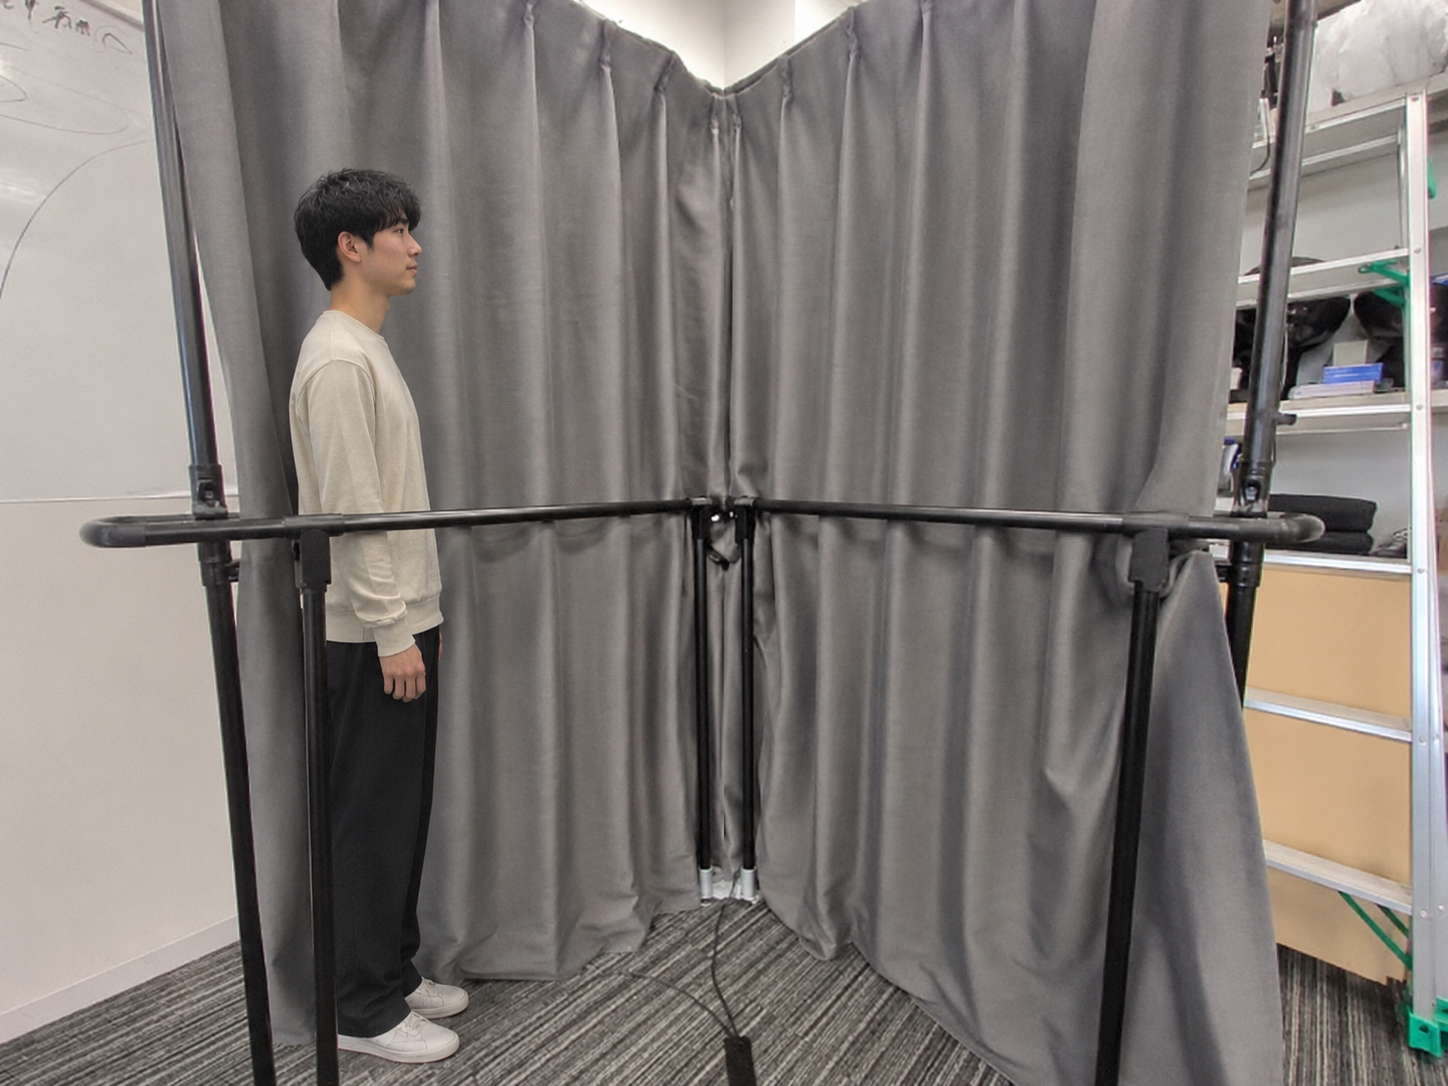
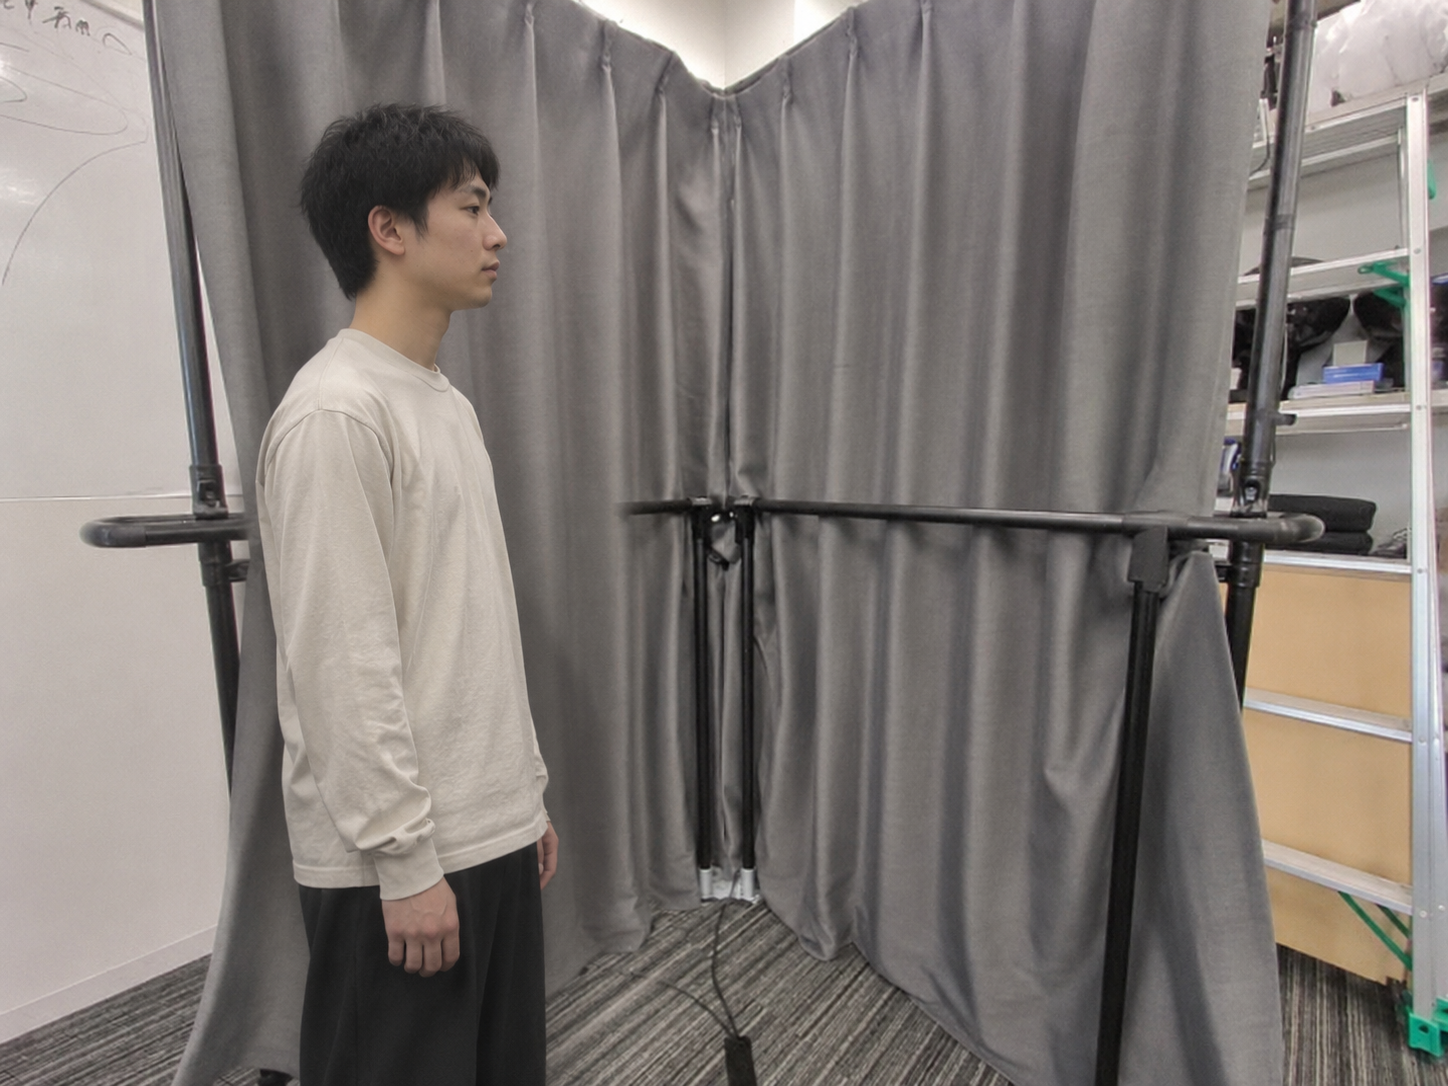
fix：合成の説明画で、人と幽霊を手すりの手前に立たせる
- 体験者は手すりのカメラ側に立つ。前の版は手すりの奥に立たせていた
- 幽霊の指先が中央を越えなくなったので、境目をちょうど半分にし、ブレンドは境目から左へ取る
- 境目が幕の角の折り目と重なって当てにならないので、境目の差の数値を外す

diff --git a/paper/dcexpo-pitch/make-composite-demo.py b/paper/dcexpo-pitch/make-composite-demo.py
@@ -3,8 +3,8 @@
     py -3.11 paper/dcexpo-pitch/make-composite-demo.py <出力フォルダ>
 
 同じ環境画像（カメラ A の無人の実写）から、画像生成で 2 枚を別々に作ってある。
-  src/gen-person.png  左に、右を向いて立つ人
-  src/gen-ghost.png   右に、左へ襲い掛かる幽霊の女
+  src/gen-person.png  左に、右を向いて立つ人（手すりの手前）
+  src/gen-ghost.png   右に、左へ襲い掛かる幽霊の女（手すりの手前）
 カメラが動かないので 2 枚は同じ構図になり、片方の右側をもう片方の右側へ差し替えるだけで合成になる。
 作品に出てくる物は使わない（ネタバレを避ける代役）。プロンプトは src/*.prompt.txt。
 1 合成前 / 2 合成後（右側をそのまま差し替える）/ 3 境界ブレンド後 / 4 画像加工後。
@@ -20,8 +20,8 @@ ROOT = HERE.parent.parent
 ENV = ROOT / "Assets/StreamingAssets/show/assets/plate_A_20261115_125052.jpg"
 PERSON = HERE / "src/gen-person.png"
 GHOST = HERE / "src/gen-ghost.png"
-SEAM = 0.40      # 差し替える境目（画面の幅に対して）。幽霊の手が中央より左へ出ているので、中央より少し左に置く
-FEATHER = 150    # 境界ブレンドの幅（px）
+SEAM = 0.50      # 差し替える境目（画面の幅に対して）。ちょうど半分
+FEATHER = 150    # 境界ブレンドの幅（px）。幽霊の指先が境目のすぐ右にあるので、境目から左へ取る
 rng = np.random.default_rng(7)
 
 
@@ -66,10 +66,10 @@ def main(out_dir):
     s2[:, seam:] = b[:, seam:]
 
     # 3 境界ブレンド後: 境目の近くで明るさと色を揃え、幅を持たせて混ぜる
-    band = slice(seam - 110, seam + 10)
+    band = slice(seam - 120, seam)
     gain = a[:, band].mean(axis=(0, 1)) / b[:, band].mean(axis=(0, 1))
     xs = np.arange(w, dtype=np.float32)
-    t = np.clip((xs - (seam - FEATHER / 2)) / FEATHER, 0, 1)
+    t = np.clip((xs - (seam - FEATHER)) / FEATHER, 0, 1)
     m = (t * t * (3 - 2 * t))[None, :, None]
     fade = np.clip((xs - seam) / (w * 0.25), 0, 1)[None, :, None]      # 色の補正は境目から離れるほど弱める
     b2 = b * (gain[None, None, :] * (1 - fade) + fade)
@@ -88,17 +88,12 @@ def main(out_dir):
     b_im.save(out / f"素材_生成2_右に幽霊_{w}x{h}.png")
 
     # 境目の拡大（2 と 3 の差は引きでは見えにくい）と、境目の位置を引いた版
-    box = (seam - 120, round(h * 0.26), seam + 120, round(h * 0.26) + 180)
+    box = (seam - 160, round(h * 0.24), seam + 80, round(h * 0.24) + 180)
     for name, im in zip(("2_合成後", "3_境界ブレンド後"), imgs[1:3]):
         im.crop(box).resize((960, 720), Image.LANCZOS).save(out / f"{name}_境目の拡大.png")
     guide = imgs[1].copy()
     ImageDraw.Draw(guide).line((seam, 0, seam, h), fill=(176, 42, 50), width=4)
     guide.save(out / f"2_合成後_境目に線_{w}x{h}.png")
-
-    # 差の大きさ（境目の左右 1px の差の平均。0〜255）
-    step2 = np.abs(s2[:, seam] - s2[:, seam - 1]).mean() * 255
-    step3 = np.abs(s3[:, seam] - s3[:, seam - 1]).mean() * 255
-    inner = np.abs(a[:, seam - 40] - a[:, seam - 41]).mean() * 255
 
     # 4 枚を並べた版（ラベルつき）
     pw, ph, gap, pad, lab = 800, 600, 28, 56, 96
@@ -112,7 +107,7 @@ def main(out_dir):
         dr.rectangle((x, pad + ph + 34, x + 36, pad + ph + 38), fill=(176, 42, 50))
         dr.text((x, pad + ph + 46), f"{n}　{label}", font=font, fill=(21, 17, 14))
     sheet.save(out / "0_4段階を並べた版.png")
-    print(f"size={w}x{h} seam={seam} step2={step2:.1f} step3={step3:.1f} inner={inner:.1f} gain={np.round(gain, 3)}")
+    print(f"size={w}x{h} seam={seam} gain={np.round(gain, 3)}")
 
 
 if __name__ == "__main__":
